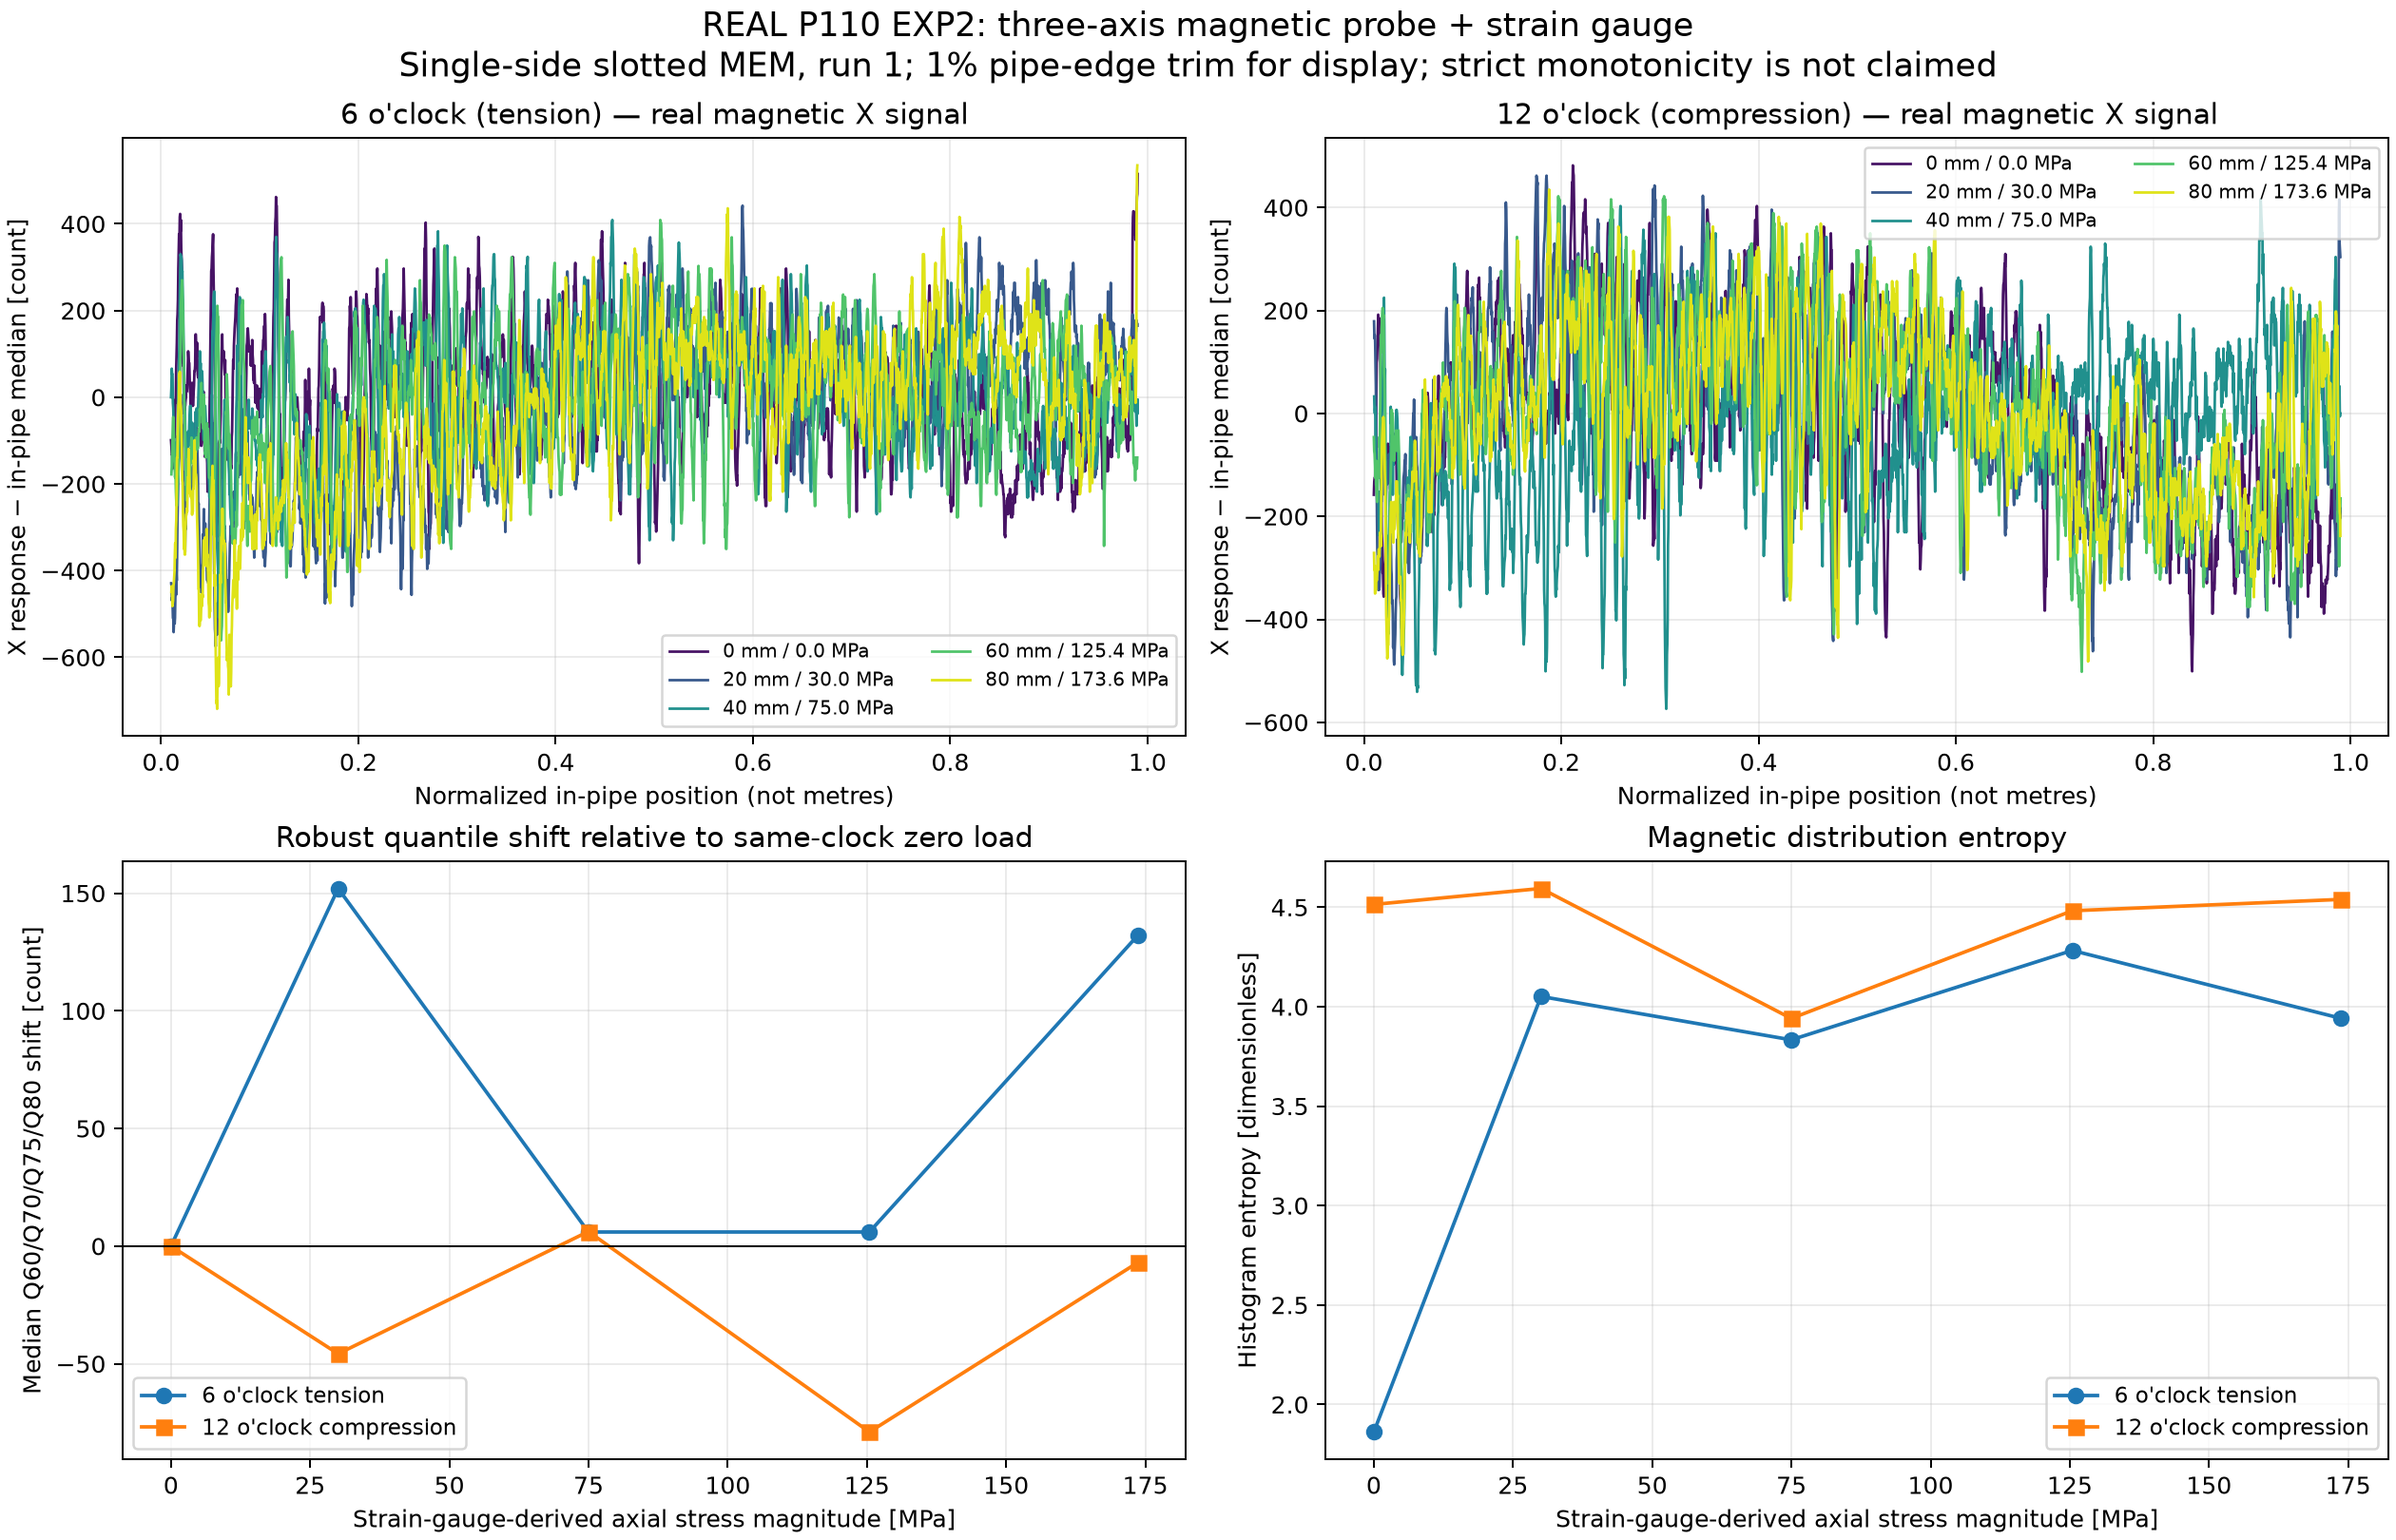
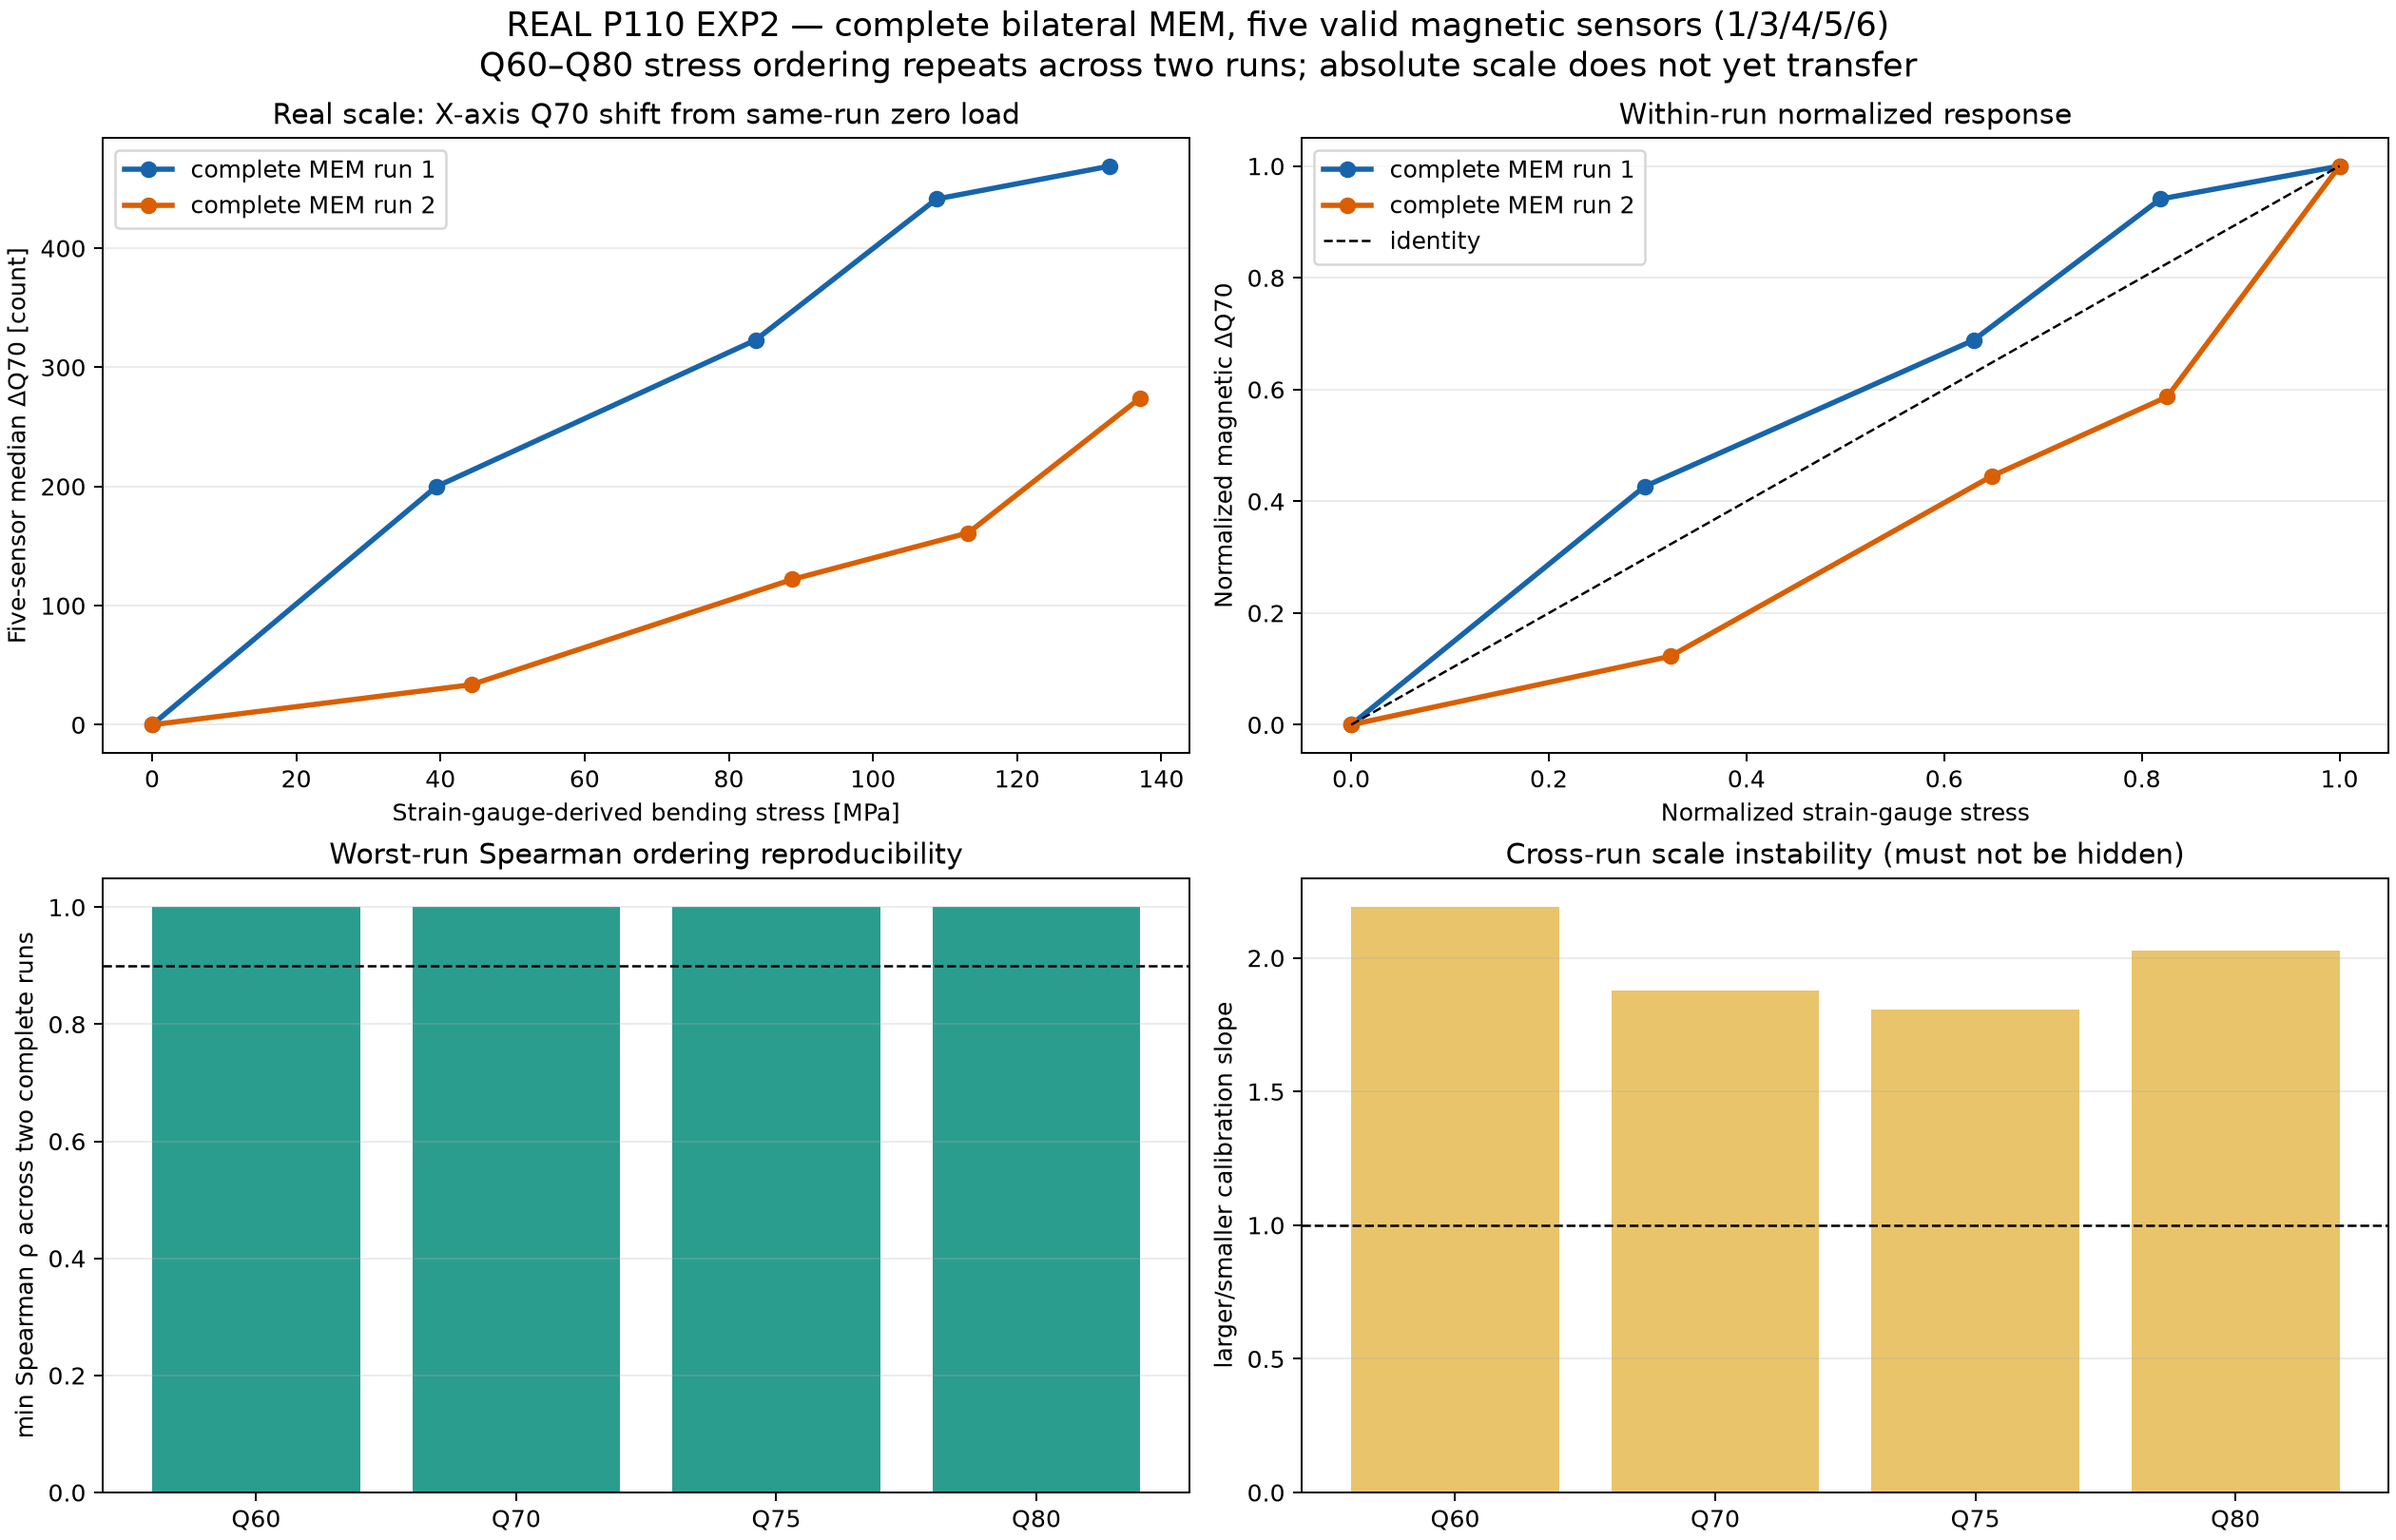
docs: replace headline with real multi-sensor P110 evidence

diff --git a/examples/generate_real_p110_case.py b/examples/generate_real_p110_case.py
@@ -10,86 +10,65 @@ import pandas as pd
 matplotlib.use("Agg")
 import matplotlib.pyplot as plt  # noqa: E402
 
+FEATURES = ["q60_delta", "q70_delta", "q75_delta", "q80_delta"]
+
 
 def main() -> None:
-    parser = argparse.ArgumentParser(description="Generate the reviewed real-P110 case-study figure.")
-    parser.add_argument("--lake", type=Path, default=Path("lake"))
-    parser.add_argument(
-        "--output",
-        type=Path,
-        default=Path("docs/results/real_p110_magnetic_case.png"),
-    )
+    parser = argparse.ArgumentParser(description="Plot reviewed real P110 multi-sensor MEM evidence.")
+    parser.add_argument("--table", type=Path, default=Path("docs/data/p110_multisensor_mem_real.csv"))
+    parser.add_argument("--output", type=Path, default=Path("docs/results/real_p110_magnetic_case.png"))
     args = parser.parse_args()
+    data = pd.read_csv(args.table)
+    if set(data["run_id"]) != {"mem_r1", "mem_r2"} or data["sensor_n"].min() != 5:
+        raise RuntimeError("Expected two reviewed complete-MEM runs with five valid sensors.")
 
-    scans = pd.read_parquet(args.lake / "catalog/scans.parquet")
-    features = pd.read_parquet(args.lake / "gold/channel_features.parquet")
-    selected = scans[
-        scans["probe_id"].eq("MEM_SINGLE_SLOT")
-        & scans["run_id"].eq("slotted_mem_r1")
-        & scans["label_status"].eq("verified")
-        & scans["primary_stress_feature_qc_status"].eq("PASS")
-    ].copy()
-    if selected.empty:
-        raise RuntimeError("Reviewed real P110 subset was not found or did not pass QC.")
-
-    colors = plt.cm.viridis(np.linspace(0.05, 0.95, selected["stage_mm"].nunique()))
-    color_by_stage = dict(zip(sorted(selected["stage_mm"].unique()), colors))
     fig, axes = plt.subplots(2, 2, figsize=(14, 9), constrained_layout=True)
+    colors = {"mem_r1": "#1764ab", "mem_r2": "#d95f02"}
+    labels = {"mem_r1": "complete MEM run 1", "mem_r2": "complete MEM run 2"}
+    for run_id, group in data.groupby("run_id"):
+        group = group.sort_values("stress_mpa")
+        axes[0, 0].plot(group["stress_mpa"], group["q70_delta"], "o-", linewidth=2.2,
+                        color=colors[run_id], label=labels[run_id])
+        x = group["stress_mpa"] / group["stress_mpa"].max()
+        y = group["q70_delta"] / group["q70_delta"].max()
+        axes[0, 1].plot(x, y, "o-", linewidth=2.2, color=colors[run_id], label=labels[run_id])
 
-    for ax, clock in zip(axes[0], (6, 12)):
-        subset = selected[selected["clock_position"].eq(clock)].sort_values("stage_mm")
-        for row in subset.itertuples(index=False):
-            signal = pd.read_parquet(args.lake / row.silver_signal_path)
-            x = signal[
-                signal["axis"].eq("X") & signal["in_pipe"] & signal["channel_qc_valid"]
-            ].sort_values("pipe_position_norm")
-            x = x[x["pipe_position_norm"].between(0.01, 0.99)]
-            if x.empty:
-                continue
-            values = x["value_raw"].to_numpy(dtype=float)
-            values = values - np.nanmedian(values)
-            ax.plot(
-                x["pipe_position_norm"],
-                values,
-                color=color_by_stage[row.stage_mm],
-                linewidth=1.1,
-                label=f"{row.stage_mm:g} mm / {row.stress_mpa_magnitude:.1f} MPa",
-            )
-        stress_type = "tension" if clock == 6 else "compression"
-        ax.set_title(f"{clock} o'clock ({stress_type}) — real magnetic X signal")
-        ax.set_xlabel("Normalized in-pipe position (not metres)")
-        ax.set_ylabel("X response − in-pipe median [count]")
-        ax.grid(alpha=0.25)
-        ax.legend(fontsize=8, ncol=2)
+    axes[0, 0].set_title("Real scale: X-axis Q70 shift from same-run zero load")
+    axes[0, 0].set_xlabel("Strain-gauge-derived bending stress [MPa]")
+    axes[0, 0].set_ylabel("Five-sensor median ΔQ70 [count]")
+    axes[0, 1].plot([0, 1], [0, 1], "k--", linewidth=1, label="identity")
+    axes[0, 1].set_title("Within-run normalized response")
+    axes[0, 1].set_xlabel("Normalized strain-gauge stress")
+    axes[0, 1].set_ylabel("Normalized magnetic ΔQ70")
 
-    fx = features[
-        features["scan_id"].isin(selected["scan_id"])
-        & features["axis"].eq("X")
-        & features["channel_qc_valid"]
-    ].copy()
-    for clock, marker, label in ((6, "o", "6 o'clock tension"), (12, "s", "12 o'clock compression")):
-        q = fx[fx["clock_position"].eq(clock)].sort_values("stress_mpa_magnitude")
-        axes[1, 0].plot(
-            q["stress_mpa_magnitude"], q["q_family_delta"], marker=marker, label=label
-        )
-        axes[1, 1].plot(
-            q["stress_mpa_magnitude"], q["histogram_entropy"], marker=marker, label=label
-        )
+    rho_by_feature, slope_ratio_by_feature = [], []
+    for feature in FEATURES:
+        rhos, slopes = [], []
+        for _, group in data.groupby("run_id"):
+            stress_rank = group["stress_mpa"].rank().to_numpy(dtype=float)
+            feature_rank = group[feature].rank().to_numpy(dtype=float)
+            rhos.append(float(np.corrcoef(stress_rank, feature_rank)[0, 1]))
+            slopes.append(np.polyfit(group["stress_mpa"], group[feature], 1)[0])
+        rho_by_feature.append(min(rhos))
+        slope_ratio_by_feature.append(max(slopes) / min(slopes))
 
-    axes[1, 0].axhline(0, color="black", linewidth=0.8)
-    axes[1, 0].set_title("Robust quantile shift relative to same-clock zero load")
-    axes[1, 0].set_xlabel("Strain-gauge-derived axial stress magnitude [MPa]")
-    axes[1, 0].set_ylabel("Median Q60/Q70/Q75/Q80 shift [count]")
-    axes[1, 1].set_title("Magnetic distribution entropy")
-    axes[1, 1].set_xlabel("Strain-gauge-derived axial stress magnitude [MPa]")
-    axes[1, 1].set_ylabel("Histogram entropy [dimensionless]")
-    for ax in axes[1]:
-        ax.grid(alpha=0.25)
-        ax.legend(fontsize=9)
-
+    names = ["Q60", "Q70", "Q75", "Q80"]
+    axes[1, 0].bar(names, rho_by_feature, color="#2a9d8f")
+    axes[1, 0].axhline(0.9, color="black", linestyle="--", linewidth=1)
+    axes[1, 0].set_ylim(0, 1.05)
+    axes[1, 0].set_title("Worst-run Spearman ordering reproducibility")
+    axes[1, 0].set_ylabel("min Spearman ρ across two complete runs")
+    axes[1, 1].bar(names, slope_ratio_by_feature, color="#e9c46a")
+    axes[1, 1].axhline(1.0, color="black", linestyle="--", linewidth=1)
+    axes[1, 1].set_title("Cross-run scale instability (must not be hidden)")
+    axes[1, 1].set_ylabel("larger/smaller calibration slope")
+    for ax in axes.flat:
+        ax.grid(alpha=0.25, axis="y")
+    axes[0, 0].legend()
+    axes[0, 1].legend()
     fig.suptitle(
-        "REAL P110 EXP2: three-axis magnetic probe + strain gauge\n"
-        "Single-side slotted MEM, run 1; 1% pipe-edge trim for display; strict monotonicity is not claimed",
+        "REAL P110 EXP2 — complete bilateral MEM, five valid magnetic sensors (1/3/4/5/6)\n"
+        "Q60–Q80 stress ordering repeats across two runs; absolute scale does not yet transfer",
         fontsize=14,
     )
     args.output.parent.mkdir(parents=True, exist_ok=True)

diff --git a/README.md b/README.md
@@ -10,11 +10,11 @@ The pipeline turns scattered CSV/XLSX/native acquisition files into immutable ra
 
 ## Real P110 evidence first
 
-The figure below is generated from the **real P110 EXP2 magnetic measurements and strain-gauge-derived stress**, not from synthetic demo data. Only the first and last 1% of the detected in-pipe interval are trimmed for visualization; the frozen feature tables are unchanged.
+The figure below is generated from the **new real P110 EXP2 complete-bilateral-MEM campaign**, not from synthetic demo data. It uses five valid magnetic sensors (IDs 1/3/4/5/6), two complete repeated runs, X-axis clipping-aware Q60–Q80 shifts relative to each run's zero-load scan, and strain-gauge-derived bending stress.
 
 ![Real P110 magnetic and strain case study](docs/results/real_p110_magnetic_case.png)
 
-The curves show genuine load-related distribution changes, together with genuine non-monotonicity. They support stress-sensitive magnetic response, but not a universal direct-MPa calibration.
+Both runs reproduce stress ordering (Spearman ρ ≈ 1 for Q60–Q80), while the direct linear slopes shown here differ by roughly 1.8–2.2×. This supports a robust **relative ordering** candidate, not a universal direct-MPa calibration.
 
 ## Why this repository exists
 
@@ -73,12 +73,12 @@ Expected outputs:
 
 Modality scope: three-axis magnetic probe signals plus strain-gauge records. No ETP channels are present. Names that describe a magnetizing section or probe condition are experimental hardware labels, not an additional independently acquired remanence modality.
 
-The following figure is generated from the **real P110 EXP2 measurements**, not from the synthetic reader demo. It shows a QC-passing single-side-slotted MEM run at 6 and 12 o'clock. The real data support visible zero/load distribution changes, but they do not justify claiming a strictly monotonic magnetic-to-stress calibration across every stage.
+The curated table behind the figure contains only derived values from the reviewed real experiment; the raw magnetic and strain files remain in the private Release. The single-side-slotted probe is not used for this headline evidence.
 
 Recreate it after downloading/extracting the private full-data release:
 
 ```powershell
-python examples/generate_real_p110_case.py --lake path/to/extracted_release
+python examples/generate_real_p110_case.py
 ```
 
 The local full-data run used 211 source files:

diff --git a/README_CN.md b/README_CN.md
@@ -6,11 +6,11 @@
 
 ## 首页优先展示真实 P110 数据
 
-下图直接由**真实 P110 EXP2 磁信号和应变片推导应力**生成，不是合成 Demo。绘图仅裁除检测管内区间首尾各1%的边缘效应，冻结特征表没有被修改。
+下图直接来自**新一轮真实 P110 EXP2 完整双磁极 MEM 多传感实验**，不是合成 Demo。使用5个有效磁传感器（1、3、4、5、6）、两轮完整重复实验、相对各轮零载的X轴削顶感知Q60–Q80分位增量，以及应变片推导弯曲应力。
 
 ![真实P110磁信号与应变案例](docs/results/real_p110_magnetic_case.png)
 
-下图来自**真实 P110 EXP2 实验数据**，不是合成 Demo。图中选择通过主特征质量门禁、同时具有6点与12点数据的单侧开槽 MEM 第一轮，展示真实 X 轴磁信号以及与应变片推导轴向应力的对应关系。真实数据可以看到零载/加载后的分布变化，但不能据此宣称每个加载阶段都严格单调。
+两轮Q60–Q80对应力排序均复现（Spearman ρ约为1），但按图中直接线性拟合计算，跨轮标定斜率仍相差约1.8–2.2倍。因此它是较有说服力的相对应力排序特征，还不是可直接迁移的MPa定量模型。首页不再使用单侧开槽探头作为主要证据。
 
 ## 私有全量数据版本
 
